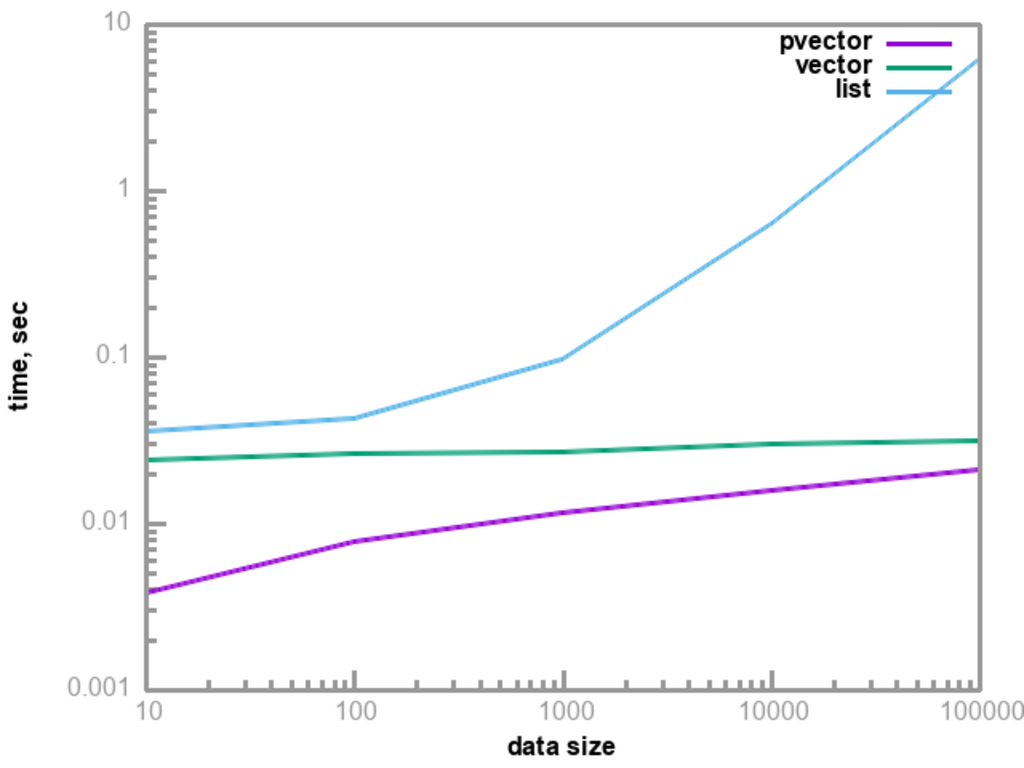
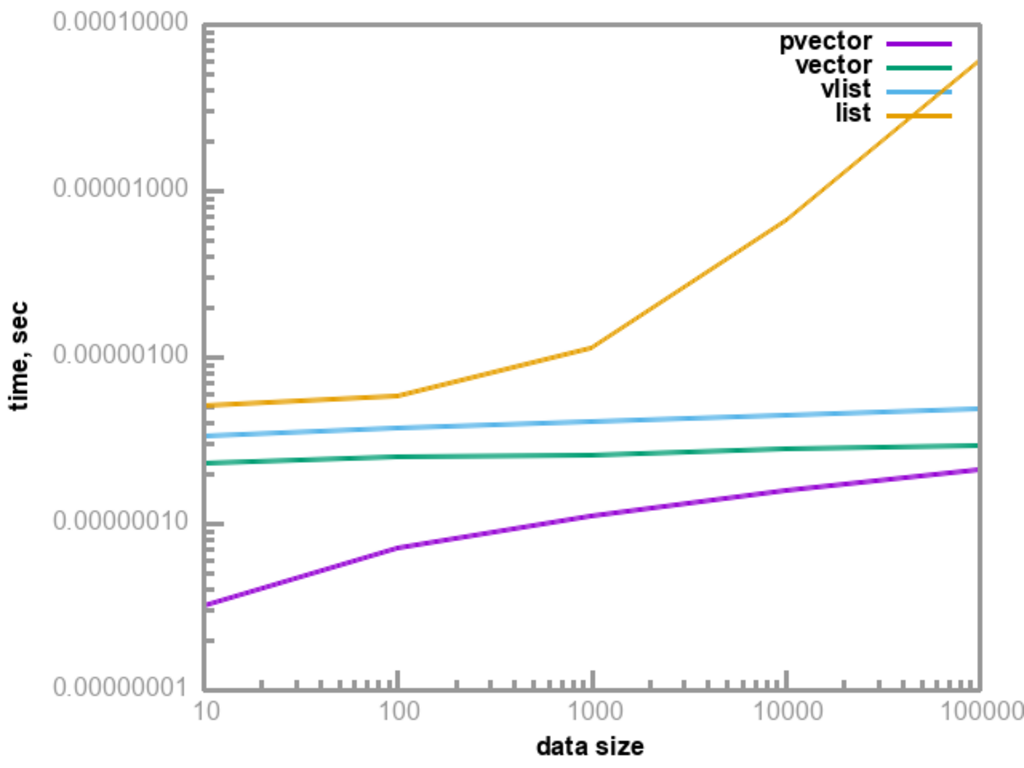
Vlists added

diff --git a/README.md b/README.md
@@ -12,11 +12,19 @@ The absence of an efficient Clojue-like purelly functional vector in the Guile S
 
 ## Performance
 
-### Access to an element with random index (logarithmic scale)
+### Access to an element with random index
 
-[![Random reads, pvector vs. vector and list](https://github.com/yashrk/pvector/blob/main/benchmarks/random-reads-short.png)](https://github.com/yashrk/pvector/blob/main/benchmarks/random-reads-short.png)
+#### With linked list
 
-[![Random reads, pvector vs. vector](https://github.com/yashrk/pvector/blob/main/benchmarks/random-reads.png)](https://github.com/yashrk/pvector/blob/main/benchmarks/random-reads.png)
+[![Random reads, pvector vs. vector, vlist and linked list](https://github.com/yashrk/pvector/blob/main/benchmarks/random-reads-short.png)](https://github.com/yashrk/pvector/blob/main/benchmarks/random-reads-short.png)
+
+This persistent vector, scheme arrays (SRFI-43), vlists, linked lists. Logarithmic scale on both axis.
+
+#### With linked list
+
+[![Random reads, pvector vs. vlist and vector](https://github.com/yashrk/pvector/blob/main/benchmarks/random-reads.png)](https://github.com/yashrk/pvector/blob/main/benchmarks/random-reads.png)
+
+This persistent vector, scheme arrays (SRFI-43), vlists, Logarithmic scale on data size axis.
 
 ## Sources of inspiration
 
